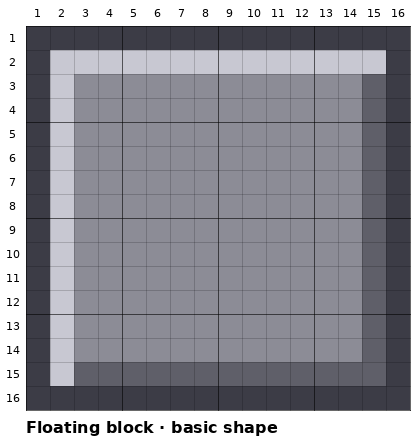
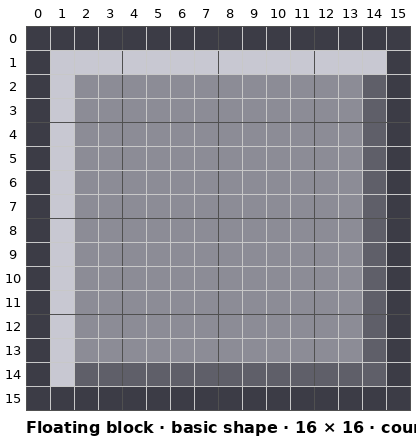
Platforms lesson: count rows and columns from 0 to match Piskel; redraw grid pictures
Claude-Session: https://claude.ai/code/session_0163dwnT656jUnDkoJDXqKES

diff --git a/piskel/lesson-00-three-platforms/index.html b/piskel/lesson-00-three-platforms/index.html
@@ -63,9 +63,9 @@
     <div class="down">↓</div>
     <div class="band" style="--c:var(--p2)"><h4><a href="#part2">Part 2 · Big ground platform</a></h4><div class="bubbles">
       <div class="bubble"><b>2A · Outline</b>Rectangle tool · #3B2414<br>Whole canvas, corner to corner</div><span class="arrow">→</span>
-      <div class="bubble"><b>2B · Grass line</b>Stroke tool · row 5 · hold Shift<br>Across from side to side</div><span class="arrow">→</span>
+      <div class="bubble"><b>2B · Grass line</b>Stroke tool · row 4 · hold Shift<br>Across from side to side</div><span class="arrow">→</span>
       <div class="bubble"><b>2C · Fill</b>Paint bucket<br>Grass #5AC850 · Dirt #8B5A2B</div><span class="arrow">→</span>
-      <div class="bubble"><b>2D · Grass details</b>Pen · row 2 #96E678 · row 4 #3C9637<br>Drips under row 5</div><span class="arrow">→</span>
+      <div class="bubble"><b>2D · Grass details</b>Pen · row 1 #96E678 · row 3 #3C9637<br>Drips under row 4</div><span class="arrow">→</span>
       <div class="bubble"><b>2E · Dirt details</b>Specks #6B4220<br>Stones #B4A08C</div><span class="arrow">→</span>
       <div class="bubble"><b>2F · Save + export</b>Save: ground.piskel<br>Export → PNG → Download</div>
     </div></div>
@@ -74,14 +74,14 @@
       <div class="bubble"><b>3A · New sprite</b>New tab · Create Sprite<br>Resize 16 × 16<br>Optional: Block palette, 4 colours</div><span class="arrow">→</span>
       <div class="bubble"><b>3B · Outline + fill</b>Rectangle #3C3C46<br>Bucket #8C8C96</div><span class="arrow">→</span>
       <div class="bubble"><b>3C · Edges</b>Stroke: light #C8C8D2 top + left<br>dark #5F5F69 bottom + right</div><span class="arrow">→</span>
-      <div class="bubble"><b>3D · Bricks</b>Mortar #5F5F69 · row 9 #C8C8D2<br>Crack</div><span class="arrow">→</span>
+      <div class="bubble"><b>3D · Bricks</b>Mortar #5F5F69 · row 8 #C8C8D2<br>Crack</div><span class="arrow">→</span>
       <div class="bubble"><b>3E · Save + export</b>block.piskel<br>block.png</div>
     </div></div>
     <div class="down">↓</div>
     <div class="band" style="--c:var(--p4)"><h4><a href="#part4">Part 4 · Log platform</a></h4><div class="bubbles">
       <div class="bubble"><b>4A · New sprite</b>New tab · Create Sprite<br>Resize 48 × 16<br>Optional: Log palette, 6 colours</div><span class="arrow">→</span>
       <div class="bubble"><b>4B · Outline + round ends</b>Rectangle #4A2C12<br>Erase 3 px per corner, add 1 inside</div><span class="arrow">→</span>
-      <div class="bubble"><b>4C · Fill + bark</b>Bucket #8B5A2B · row 4 #B07A45<br>rows 9 + 13 #6B4220</div><span class="arrow">→</span>
+      <div class="bubble"><b>4C · Fill + bark</b>Bucket #8B5A2B · row 3 #B07A45<br>rows 8 + 12 #6B4220</div><span class="arrow">→</span>
       <div class="bubble"><b>4D · Cut end + knot</b>Face #DCB478 · rings #A87444<br>Knot · break the bark lines</div><span class="arrow">→</span>
       <div class="bubble"><b>4E · Save + export</b>log.piskel<br>log.png</div>
     </div></div>
@@ -90,7 +90,7 @@
       <div class="bubble"><b>5A · Hand in</b>Google Classroom<br>3 .piskel + 3 .png</div>
     </div></div>
   </div>
-  <p class="key">Each colour is one part. Codes like 2B mean Part 2, section B. Underlined words are links. Codes like #5AC850 are colours. If you made a palette, (swatch 2) tells you which square to click. Row and column numbers count from 1, matching the numbers on the picture grids (Piskel's own counter starts at 0).</p>
+  <p class="key">Each colour is one part. Codes like 2B mean Part 2, section B. Underlined words are links. Codes like #5AC850 are colours. If you made a palette, (swatch 2) tells you which square to click. Row and column numbers count from 0, the same as Piskel's yellow mouse counter and the picture grids.</p>
 </section>
 
 <div class="controls">
@@ -110,7 +110,7 @@
 <tr><td><b>Pen size</b> (four small squares)</td><td>Far left, just above the tools</td></tr>
 <tr><td><b>Colour squares</b> (primary and secondary)</td><td>Far left, under the tools</td></tr>
 <tr><td><b>Palettes</b> panel</td><td>Right side, under Layers and Transform</td></tr>
-<tr><td><b>Mouse position</b> (yellow numbers)</td><td>Bottom-right, under the Palettes panel. Shows column:row of the pixel under the mouse, counting from 0.</td></tr>
+<tr><td><b>Mouse position</b> (yellow numbers)</td><td>Bottom-right, under the Palettes panel. Shows column:row of the pixel under the mouse. It counts from 0, the same as this lesson.</td></tr>
 <tr><td><b>Canvas</b> (where you draw)</td><td>Middle of the screen</td></tr>
 <tr><td><b>Preview</b> window and the quick <b>#</b> grid button</td><td>Top-right corner. The # button stays hidden until you move the mouse to the top of the Preview window, under Create Sprite.</td></tr>
 <tr><td><b>Settings</b> (gear) and its <b>Grid</b> tab</td><td>Strip of icons on the far right edge. Background (Misc tab), grid colour and turning the grid on (Grid tab) are set here.</td></tr>
@@ -168,14 +168,14 @@
 <summary><h2>Part 2 · Big ground platform</h2><span class="done"></span></summary>
 <div class="body">
 <p>First the basic shape: a dark brown box, a line to split off the grass, and two fills. Then the details.</p>
-<img class="ref" src="img/ground-basic-grid.png" alt="The basic ground platform on a numbered 64 by 16 grid" width="800" height="248">
+<img class="ref" src="img/ground-basic-grid.png?v=2" alt="The basic ground platform on a numbered 64 by 16 grid" width="800" height="248">
 <table>
 <tr><th>Swatch</th><th>Part of the platform</th><th>Colour code</th><th>Quick notes</th></tr>
-<tr><td>1</td><td>Outline and grass line</td><td><b>#3B2414</b> (very dark brown)</td><td><b>Rectangle</b> corner to corner · <b>Stroke</b> row 5</td></tr>
-<tr><td>2</td><td>Grass</td><td><b>#5AC850</b> (green)</td><td><b>(fill)</b> Bucket, top band · <b>Pen</b> every 4th px row 2, every 6th row 4</td></tr>
+<tr><td>1</td><td>Outline and grass line</td><td><b>#3B2414</b> (very dark brown)</td><td><b>Rectangle</b> corner to corner · <b>Stroke</b> row 4</td></tr>
+<tr><td>2</td><td>Grass</td><td><b>#5AC850</b> (green)</td><td><b>(fill)</b> Bucket, top band · <b>Pen</b> every 4th px row 1, every 6th row 3</td></tr>
 <tr><td>3</td><td>Dirt</td><td><b>#8B5A2B</b> (brown)</td><td><b>(fill)</b> Bucket, bottom band</td></tr>
-<tr><td>4</td><td>Grass highlight</td><td><b>#96E678</b> (light green)</td><td><b>Stroke</b> row 2, cols 2–63</td></tr>
-<tr><td>5</td><td>Grass shadow and drips</td><td><b>#3C9637</b> (dark green)</td><td><b>Stroke</b> row 4, cols 2–63 · <b>Pen</b> drips under row 5</td></tr>
+<tr><td>4</td><td>Grass highlight</td><td><b>#96E678</b> (light green)</td><td><b>Stroke</b> row 1, cols 1–62</td></tr>
+<tr><td>5</td><td>Grass shadow and drips</td><td><b>#3C9637</b> (dark green)</td><td><b>Stroke</b> row 3, cols 1–62 · <b>Pen</b> drips under row 4</td></tr>
 <tr><td>6</td><td>Specks and stone shadows</td><td><b>#6B4220</b> (darker brown)</td><td><b>Pen</b> ~12 specks · row under each stone</td></tr>
 <tr><td>7</td><td>Stones</td><td><b>#B4A08C</b> (pale grey-brown)</td><td><b>Pen</b> 2 px on top, 4 below</td></tr>
 </table>
@@ -195,10 +195,10 @@
 <h3>2B · Grass line</h3>
 <ol>
 <li>Keep <b>#3B2414</b> (swatch 1). Choose the <b>Stroke tool</b> <img src="../../assets/piskel/icon-stroke.png" alt="Stroke tool icon: a pen drawing a straight line" width="65" height="62" style="height:1.6em;width:auto;vertical-align:middle;margin:0 .25em;border-radius:3px"> (a pen drawing a straight line).</li>
-<li>Find <b>row 5</b> using the numbers down the left of the picture grid above (4 rows down from the top edge is grass).</li>
-<li>Press on the left outline at row 5, drag straight across to the right outline at row 5, and let go. A dark line now splits the strip into a thin top band and a thick bottom band.</li>
+<li>Find <b>row 4</b> using the numbers down the left of the picture grid above. Rows 0 to 3 are the top outline and the grass, so row 4 is the row just under them.</li>
+<li>Press on the left outline at row 4, drag straight across to the right outline at row 4, and let go. A dark line now splits the strip into a thin top band and a thick bottom band.</li>
 </ol>
-<div class="note what"><b>Where is my mouse?</b> The yellow numbers at the bottom-right, under the Palettes panel, show which pixel the mouse is over: the canvas size in brackets, then <b>column:row</b>.<img src="../../assets/piskel/mouse-position.png" alt="Yellow numbers at the bottom-right of Piskel: x17.60 (zoom), [48x16] 26:7 (canvas size, then column and row under the mouse), 1/1 (frame)" width="170" height="70" style="display:block;max-width:100%;height:auto;margin:.5em 0;border:1px solid #ccc;border-radius:6px">Piskel starts counting at <b>0</b>, but this lesson starts at <b>1</b>, so Piskel's numbers are always <b>one less</b>. Row 5, column 2 in the lesson shows as <b>1:4</b> in Piskel.</div>
+<div class="note what"><b>Where is my mouse?</b> The yellow numbers at the bottom-right, under the Palettes panel, show which pixel the mouse is over: the canvas size in brackets, then <b>column:row</b>.<img src="../../assets/piskel/mouse-position.png" alt="Yellow numbers at the bottom-right of Piskel: x17.60 (zoom), [48x16] 26:7 (canvas size, then column and row under the mouse), 1/1 (frame)" width="170" height="70" style="display:block;max-width:100%;height:auto;margin:.5em 0;border:1px solid #ccc;border-radius:6px">Piskel starts counting at <b>0</b> (the top-left pixel is <b>0:0</b>), and so does this lesson, so the numbers match. Row 4, column 1 shows as <b>1:4</b>: column first, then row.</div>
 <div class="note what"><b>Straight lines:</b> hold <b>Shift</b> while you drag with the Stroke tool. It pulls the line straight across or straight down. Keep the mouse close to the row as you drag, though: if it drifts too far, the line flips to a diagonal. If that happens, move back toward the row before you let go. The yellow row number at the bottom-right should stay the same the whole way across.</div>
 
 <h3>2C · Fill the grass and dirt</h3>
@@ -216,22 +216,22 @@
 </div>
 
 <h3>2D · Grass details</h3>
-<p>Now copy the detailed pattern, or make up your own details. The numbers along the top and side count the pixels, so you can find your place.</p>
-<img class="ref" src="img/ground-grid.png" alt="The detailed ground platform pattern on a numbered 64 by 16 grid" width="800" height="248">
+<p>Now copy the detailed pattern, or make up your own details. The numbers along the top and side count the pixels from 0, the same as Piskel's yellow mouse counter, so you can find your place.</p>
+<img class="ref" src="img/ground-grid.png?v=2" alt="The detailed ground platform pattern on a numbered 64 by 16 grid" width="800" height="248">
 <img class="ref" src="img/ground-big.png" alt="The finished detailed ground platform, shown bigger" width="384" height="96">
 <ol>
-<li>Pick <b>#96E678</b> (swatch 4) and choose the <b>Stroke tool</b> <img src="../../assets/piskel/icon-stroke.png" alt="Stroke tool icon: a pen drawing a straight line" width="65" height="62" style="height:1.6em;width:auto;vertical-align:middle;margin:0 .25em;border-radius:3px">. Drag along <b>row 2</b> from column 2 to column 63. The top of the grass turns light green.</li>
-<li>Choose the <b>Pen tool</b> <img src="../../assets/piskel/icon-pen.png" alt="Pen tool icon: a pencil" width="47" height="50" style="height:1.6em;width:auto;vertical-align:middle;margin:0 .25em;border-radius:3px"> and pick the plain green <b>#5AC850</b> (swatch 2). On row 2, click every 4th pixel to put plain green back (columns 2, 6, 10, 14 and so on, as in the picture). The gaps look like separate blades of grass.</li>
-<li>Pick <b>#3C9637</b> (swatch 5) and the <b>Stroke tool</b> <img src="../../assets/piskel/icon-stroke.png" alt="Stroke tool icon: a pen drawing a straight line" width="65" height="62" style="height:1.6em;width:auto;vertical-align:middle;margin:0 .25em;border-radius:3px">. Drag along <b>row 4</b> from column 2 to column 63. This is the shadow at the bottom of the grass.</li>
-<li>With the <b>Pen</b> and green <b>#5AC850</b> (swatch 2), put a few plain green pixels back on row 4 (every 6th pixel in the picture).</li>
-<li>Pick <b>#3C9637</b> (swatch 5) again. With the <b>Pen</b>, draw the <b>drips</b>: short bits of grass hanging down into the dirt, just below the dark line on row 5. Each drip is 1 to 3 pixels long, going straight down. Copy where they are in the picture, or put your own.</li>
+<li>Pick <b>#96E678</b> (swatch 4) and choose the <b>Stroke tool</b> <img src="../../assets/piskel/icon-stroke.png" alt="Stroke tool icon: a pen drawing a straight line" width="65" height="62" style="height:1.6em;width:auto;vertical-align:middle;margin:0 .25em;border-radius:3px">. Drag along <b>row 1</b> from column 1 to column 62. The top of the grass turns light green.</li>
+<li>Choose the <b>Pen tool</b> <img src="../../assets/piskel/icon-pen.png" alt="Pen tool icon: a pencil" width="47" height="50" style="height:1.6em;width:auto;vertical-align:middle;margin:0 .25em;border-radius:3px"> and pick the plain green <b>#5AC850</b> (swatch 2). On row 1, click every 4th pixel to put plain green back (columns 1, 5, 9, 13 and so on, as in the picture). The gaps look like separate blades of grass.</li>
+<li>Pick <b>#3C9637</b> (swatch 5) and the <b>Stroke tool</b> <img src="../../assets/piskel/icon-stroke.png" alt="Stroke tool icon: a pen drawing a straight line" width="65" height="62" style="height:1.6em;width:auto;vertical-align:middle;margin:0 .25em;border-radius:3px">. Drag along <b>row 3</b> from column 1 to column 62. This is the shadow at the bottom of the grass.</li>
+<li>With the <b>Pen</b> and green <b>#5AC850</b> (swatch 2), put a few plain green pixels back on row 3 (every 6th pixel in the picture).</li>
+<li>Pick <b>#3C9637</b> (swatch 5) again. With the <b>Pen</b>, draw the <b>drips</b>: short bits of grass hanging down into the dirt, just below the dark line on row 4. Each drip is 1 to 3 pixels long, going straight down. Copy where they are in the picture, or put your own.</li>
 <li>Made a mistake? <b>Right-click</b> a pixel with the Pen to erase it, then put the right colour back with the Pen.</li>
 </ol>
 
 <h3>2E · Dirt details</h3>
 <ol>
 <li>Pick <b>#6B4220</b> (swatch 6) and, with the <b>Pen</b>, draw about 12 <b>specks</b> spread out in the dirt. Most are 2 pixels side by side; some are 1 pixel.</li>
-<li><b>Stones:</b> pick <b>#B4A08C</b> (swatch 7) and draw a small bump shape: 2 pixels on top, 4 pixels on the row below it. Then pick <b>#6B4220</b> (swatch 6) and draw the shadow on the row under that (look at columns 14 to 17, rows 9 to 11, in the picture). Make two stones.</li>
+<li><b>Stones:</b> pick <b>#B4A08C</b> (swatch 7) and draw a small bump shape: 2 pixels on top, 4 pixels on the row below it. Then pick <b>#6B4220</b> (swatch 6) and draw the shadow on the row under that (look at columns 13 to 16, rows 8 to 10, in the picture). Make two stones.</li>
 </ol>
 <div class="note what"><b>Your own ideas:</b> a flower, a buried bone, a worm, a mushroom on the grass. Keep everything inside the outline.</div>
 
@@ -262,14 +262,14 @@
 <div class="body">
 <p>A small stone square. A light line on the top and left and a dark line on the bottom and right make it look like it sticks out, as if light is shining from the top-left.</p>
 <div class="refrow">
-<img class="ref" src="img/block-basic-grid.png" alt="The basic stone block on a numbered 16 by 16 grid" width="416" height="440">
+<img class="ref" src="img/block-basic-grid.png?v=2" alt="The basic stone block on a numbered 16 by 16 grid" width="416" height="440">
 </div>
 <table>
 <tr><th>Swatch</th><th>Part of the block</th><th>Colour code</th><th>Quick notes</th></tr>
 <tr><td>1</td><td>Outline</td><td><b>#3C3C46</b> (very dark grey)</td><td><b>Rectangle</b> corner to corner</td></tr>
 <tr><td>2</td><td>Stone</td><td><b>#8C8C96</b> (grey)</td><td><b>(fill)</b> Bucket inside</td></tr>
-<tr><td>3</td><td>Light edge (top and left)</td><td><b>#C8C8D2</b> (light grey)</td><td><b>Stroke</b> row 2 + col 2 · row 9 (cols 3–14)</td></tr>
-<tr><td>4</td><td>Dark edge (bottom and right)</td><td><b>#5F5F69</b> (dark grey)</td><td><b>Stroke</b> row 15 + col 15 · mortar row 8 · joints col 8, cols 5 + 11 · <b>Pen</b> crack</td></tr>
+<tr><td>3</td><td>Light edge (top and left)</td><td><b>#C8C8D2</b> (light grey)</td><td><b>Stroke</b> row 1 + col 1 · row 8 (cols 2–13)</td></tr>
+<tr><td>4</td><td>Dark edge (bottom and right)</td><td><b>#5F5F69</b> (dark grey)</td><td><b>Stroke</b> row 14 + col 14 · mortar row 7 · joints col 7, cols 4 + 10 · <b>Pen</b> crack</td></tr>
 </table>
 
 <h3>3A · New sprite, 16 × 16</h3>
@@ -290,11 +290,11 @@
 <p>All four lines go just <b>inside</b> the outline, on the first ring of grey pixels.</p>
 <ol>
 <li>Pick <b>#C8C8D2</b> (swatch 3) and choose the <b>Stroke tool</b> <img src="../../assets/piskel/icon-stroke.png" alt="Stroke tool icon: a pen drawing a straight line" width="65" height="62" style="height:1.6em;width:auto;vertical-align:middle;margin:0 .25em;border-radius:3px">.</li>
-<li><b>Top:</b> drag along <b>row 2</b> from column 2 to column 15.</li>
-<li><b>Left:</b> drag down <b>column 2</b> from row 2 to row 15.</li>
+<li><b>Top:</b> drag along <b>row 1</b> from column 1 to column 14.</li>
+<li><b>Left:</b> drag down <b>column 1</b> from row 1 to row 14.</li>
 <li>Pick <b>#5F5F69</b> (swatch 4).</li>
-<li><b>Bottom:</b> drag along <b>row 15</b> from column 3 to column 15.</li>
-<li><b>Right:</b> drag up <b>column 15</b> from row 15 to row 3.</li>
+<li><b>Bottom:</b> drag along <b>row 14</b> from column 2 to column 14.</li>
+<li><b>Right:</b> drag up <b>column 14</b> from row 14 to row 2.</li>
 </ol>
 <div class="note what"><b>Remember:</b> hold <b>Shift</b> and keep the mouse close to the row or column as you drag. If the line flips to a diagonal, move back before you let go.</div>
 <div class="note what"><b>Look at the Preview</b> (top-right corner). At its real small size, the block should look raised, like a button.</div>
@@ -302,15 +302,15 @@
 <h3>3D · Bricks</h3>
 <p>Turn the plain stone into bricks. Copy the pattern, or draw your own brick layout.</p>
 <div class="refrow">
-<img class="ref" src="img/block-grid.png" alt="The detailed stone block pattern on a numbered 16 by 16 grid" width="416" height="440">
+<img class="ref" src="img/block-grid.png?v=2" alt="The detailed stone block pattern on a numbered 16 by 16 grid" width="416" height="440">
 <img class="ref" src="img/block-big.png" alt="The finished detailed stone block, shown bigger" width="96" height="96">
 </div>
 <ol>
-<li>Pick <b>#5F5F69</b> (swatch 4) and the <b>Stroke tool</b> <img src="../../assets/piskel/icon-stroke.png" alt="Stroke tool icon: a pen drawing a straight line" width="65" height="62" style="height:1.6em;width:auto;vertical-align:middle;margin:0 .25em;border-radius:3px">. Drag along <b>row 8</b> from column 3 to column 14. This is the mortar line between the top and bottom bricks.</li>
-<li>Pick <b>#C8C8D2</b> (swatch 3) and drag along <b>row 9</b> from column 3 to column 14, right under the mortar. The light line makes the bottom bricks look like they stick out.</li>
-<li>Pick <b>#5F5F69</b> (swatch 4) again. Drag down <b>column 8</b> from row 3 to row 7 (one joint in the top row of bricks).</li>
-<li>Drag down <b>column 5</b> from row 10 to row 14, and down <b>column 11</b> from row 10 to row 14 (two joints in the bottom row). The joints don't line up, just like a real brick wall.</li>
-<li><b>Crack:</b> with the <b>Pen</b> and <b>#5F5F69</b> (swatch 4), click 3 pixels in a zigzag: row 4 column 12, row 5 column 13, row 6 column 12.</li>
+<li>Pick <b>#5F5F69</b> (swatch 4) and the <b>Stroke tool</b> <img src="../../assets/piskel/icon-stroke.png" alt="Stroke tool icon: a pen drawing a straight line" width="65" height="62" style="height:1.6em;width:auto;vertical-align:middle;margin:0 .25em;border-radius:3px">. Drag along <b>row 7</b> from column 2 to column 13. This is the mortar line between the top and bottom bricks.</li>
+<li>Pick <b>#C8C8D2</b> (swatch 3) and drag along <b>row 8</b> from column 2 to column 13, right under the mortar. The light line makes the bottom bricks look like they stick out.</li>
+<li>Pick <b>#5F5F69</b> (swatch 4) again. Drag down <b>column 7</b> from row 2 to row 6 (one joint in the top row of bricks).</li>
+<li>Drag down <b>column 4</b> from row 9 to row 13, and down <b>column 10</b> from row 9 to row 13 (two joints in the bottom row). The joints don't line up, just like a real brick wall.</li>
+<li><b>Crack:</b> with the <b>Pen</b> and <b>#5F5F69</b> (swatch 4), click 3 pixels in a zigzag: row 3 column 11, row 4 column 12, row 5 column 11.</li>
 </ol>
 <div class="note what"><b>Remember:</b> hold <b>Shift</b> and keep the mouse close to the row or column as you drag. If the line flips to a diagonal, move back before you let go.</div>
 
@@ -335,15 +335,15 @@
 <summary><h2>Part 4 · Log platform</h2><span class="done"></span></summary>
 <div class="body">
 <p>A log is a cylinder lying on its side. Rounded ends and a light stripe near the top make a flat drawing look round. The detailed version adds a sawn-off end with tree rings.</p>
-<img class="ref" src="img/log-basic-grid.png" alt="The basic log on a numbered 48 by 16 grid" width="752" height="296">
+<img class="ref" src="img/log-basic-grid.png?v=2" alt="The basic log on a numbered 48 by 16 grid" width="752" height="296">
 <table>
 <tr><th>Swatch</th><th>Part of the log</th><th>Colour code</th><th>Quick notes</th></tr>
 <tr><td>1</td><td>Outline</td><td><b>#4A2C12</b> (very dark brown)</td><td><b>Rectangle</b>, round the corners · <b>Pen</b> cut-end oval, knot centre</td></tr>
-<tr><td>2</td><td>Bark</td><td><b>#8B5A2B</b> (brown)</td><td><b>(fill)</b> Bucket · <b>Stroke</b> over rows 4, 9, 13 cols 38–46 to clear · <b>Pen</b> gaps in bark lines</td></tr>
-<tr><td>3</td><td>Light stripe</td><td><b>#B07A45</b> (light brown)</td><td><b>Stroke</b> row 4, cols 4–45</td></tr>
-<tr><td>4</td><td>Bark lines and knot</td><td><b>#6B4220</b> (darker brown)</td><td><b>Stroke</b> rows 9 + 13, cols 4–45 · <b>Pen</b> knot ring</td></tr>
+<tr><td>2</td><td>Bark</td><td><b>#8B5A2B</b> (brown)</td><td><b>(fill)</b> Bucket · <b>Stroke</b> over rows 3, 8, 12 cols 37–45 to clear · <b>Pen</b> gaps in bark lines</td></tr>
+<tr><td>3</td><td>Light stripe</td><td><b>#B07A45</b> (light brown)</td><td><b>Stroke</b> row 3, cols 3–44</td></tr>
+<tr><td>4</td><td>Bark lines and knot</td><td><b>#6B4220</b> (darker brown)</td><td><b>Stroke</b> rows 8 + 12, cols 3–44 · <b>Pen</b> knot ring</td></tr>
 <tr><td>5</td><td>Cut end (the wood face)</td><td><b>#DCB478</b> (pale wood)</td><td><b>(fill)</b> Bucket inside the oval</td></tr>
-<tr><td>6</td><td>Tree rings</td><td><b>#A87444</b> (medium brown)</td><td><b>Pen</b> ring cols 41–46, rows 5–12 · 2×2 centre dot</td></tr>
+<tr><td>6</td><td>Tree rings</td><td><b>#A87444</b> (medium brown)</td><td><b>Pen</b> ring cols 40–45, rows 4–11 · 2×2 centre dot</td></tr>
 </table>
 
 <h3>4A · New sprite, 48 × 16</h3>
@@ -358,30 +358,30 @@
 <ol>
 <li>Pick <b>#4A2C12</b> (swatch 1), choose the <b>Rectangle tool</b> <img src="../../assets/piskel/icon-rectangle.png" alt="Rectangle tool icon: an empty square" width="53" height="55" style="height:1.6em;width:auto;vertical-align:middle;margin:0 .25em;border-radius:3px">, and drag from the top-left square to the bottom-right square.</li>
 <li>Choose the <b>Eraser tool</b> <img src="../../assets/piskel/icon-eraser.png" alt="Eraser tool icon: a tilted eraser" width="52" height="52" style="height:1.6em;width:auto;vertical-align:middle;margin:0 .25em;border-radius:3px">. At the <b>top-left corner</b>, click 3 pixels to erase them: the corner pixel, the one to its right, and the one below it. The corner now has a small notch.</li>
-<li>Choose the <b>Pen tool</b> <img src="../../assets/piskel/icon-pen.png" alt="Pen tool icon: a pencil" width="47" height="50" style="height:1.6em;width:auto;vertical-align:middle;margin:0 .25em;border-radius:3px"> and click the pixel <b>diagonally inside</b> the notch (row 2, column 2). The corner is now rounded.</li>
-<li>Do the same at the other three corners. The pixels to add with the Pen are row 2 column 47, row 15 column 2, and row 15 column 47. Use the picture grid to check.</li>
+<li>Choose the <b>Pen tool</b> <img src="../../assets/piskel/icon-pen.png" alt="Pen tool icon: a pencil" width="47" height="50" style="height:1.6em;width:auto;vertical-align:middle;margin:0 .25em;border-radius:3px"> and click the pixel <b>diagonally inside</b> the notch (row 1, column 1). The corner is now rounded.</li>
+<li>Do the same at the other three corners. The pixels to add with the Pen are row 1 column 46, row 14 column 1, and row 14 column 46. Use the picture grid to check.</li>
 </ol>
 <div class="note what"><b>Why it works:</b> cutting the square corners off is the pixel-art way of drawing a curve. It makes the ends look round.</div>
 
 <h3>4C · Fill and bark lines</h3>
 <ol>
 <li>Pick <b>#8B5A2B</b> (swatch 2), choose the <b>Paint bucket</b> <img src="../../assets/piskel/icon-bucket.png" alt="Paint bucket tool icon: a tipping paint can" width="57" height="57" style="height:1.6em;width:auto;vertical-align:middle;margin:0 .25em;border-radius:3px">, and click inside the log. If the colour spills outside, a rounded corner has a gap: press <b>Ctrl+Z</b> and check that corner against the picture.</li>
-<li>Pick <b>#B07A45</b> (swatch 3), choose the <b>Stroke tool</b> <img src="../../assets/piskel/icon-stroke.png" alt="Stroke tool icon: a pen drawing a straight line" width="65" height="62" style="height:1.6em;width:auto;vertical-align:middle;margin:0 .25em;border-radius:3px">, and drag along <b>row 4</b> from column 4 to column 45. This is the light shining on the top of the log.</li>
-<li>Pick <b>#6B4220</b> (swatch 4) and drag two more lines, from column 4 to column 45: one on <b>row 9</b> and one on <b>row 13</b>. These are the bark lines.</li>
+<li>Pick <b>#B07A45</b> (swatch 3), choose the <b>Stroke tool</b> <img src="../../assets/piskel/icon-stroke.png" alt="Stroke tool icon: a pen drawing a straight line" width="65" height="62" style="height:1.6em;width:auto;vertical-align:middle;margin:0 .25em;border-radius:3px">, and drag along <b>row 3</b> from column 3 to column 44. This is the light shining on the top of the log.</li>
+<li>Pick <b>#6B4220</b> (swatch 4) and drag two more lines, from column 3 to column 44: one on <b>row 8</b> and one on <b>row 12</b>. These are the bark lines.</li>
 </ol>
 <div class="note what"><b>Remember:</b> hold <b>Shift</b> and keep the mouse close to the row or column as you drag. If the line flips to a diagonal, move back before you let go.</div>
 
 <h3>4D · Cut end and knot</h3>
 <p>Show the sawn-off end of the log with its tree rings, and add a knot in the bark. Copy the pattern, or make up your own.</p>
-<img class="ref" src="img/log-grid.png" alt="The detailed log pattern on a numbered 48 by 16 grid" width="752" height="296">
+<img class="ref" src="img/log-grid.png?v=2" alt="The detailed log pattern on a numbered 48 by 16 grid" width="752" height="296">
 <img class="ref" src="img/log-big.png" alt="The finished detailed log, shown bigger" width="288" height="96">
 <ol>
-<li><b>Clear the way:</b> pick the bark colour <b>#8B5A2B</b> (swatch 2) and the <b>Stroke tool</b> <img src="../../assets/piskel/icon-stroke.png" alt="Stroke tool icon: a pen drawing a straight line" width="65" height="62" style="height:1.6em;width:auto;vertical-align:middle;margin:0 .25em;border-radius:3px">. Drag over <b>rows 4, 9 and 13</b> from column 38 to column 46. The right ends of the three lines disappear, so they won't cut through the wood face.</li>
-<li><b>Edge of the cut end:</b> pick <b>#4A2C12</b> (swatch 1) and, with the <b>Pen</b>, draw the tall oval at the right end, as in the picture: column 39 from row 4 to row 13, column 47 from row 4 to row 13, row 2 and row 15 from column 41 to column 46, and one corner pixel at each of row 3 and row 14 (columns 40 and 47).</li>
+<li><b>Clear the way:</b> pick the bark colour <b>#8B5A2B</b> (swatch 2) and the <b>Stroke tool</b> <img src="../../assets/piskel/icon-stroke.png" alt="Stroke tool icon: a pen drawing a straight line" width="65" height="62" style="height:1.6em;width:auto;vertical-align:middle;margin:0 .25em;border-radius:3px">. Drag over <b>rows 3, 8 and 12</b> from column 37 to column 45. The right ends of the three lines disappear, so they won't cut through the wood face.</li>
+<li><b>Edge of the cut end:</b> pick <b>#4A2C12</b> (swatch 1) and, with the <b>Pen</b>, draw the tall oval at the right end, as in the picture: column 38 from row 3 to row 12, column 46 from row 3 to row 12, row 1 and row 14 from column 40 to column 45, and one corner pixel at each of row 2 and row 13 (columns 39 and 46).</li>
 <li><b>Wood face:</b> pick <b>#DCB478</b> (swatch 5) and the <b>Paint bucket</b> <img src="../../assets/piskel/icon-bucket.png" alt="Paint bucket tool icon: a tipping paint can" width="57" height="57" style="height:1.6em;width:auto;vertical-align:middle;margin:0 .25em;border-radius:3px">, and click inside the oval. If the colour spills into the bark, there is a gap in the oval: press <b>Ctrl+Z</b> and close it.</li>
-<li><b>Rings:</b> pick <b>#A87444</b> (swatch 6) and, with the <b>Pen</b>, draw a smaller ring inside the face (columns 41 to 46, rows 5 to 12) and a 2 × 2 dot in the very middle.</li>
-<li><b>Break the bark lines:</b> still with <b>#8B5A2B</b> (swatch 2), click a few single pixels on the dark lines (rows 9 and 13) to put small gaps in them. Real bark is not one long straight line.</li>
-<li><b>Knot:</b> pick <b>#6B4220</b> (swatch 4) and draw a small ring of 6 pixels around columns 20 to 23, rows 6 to 8, then fill its centre 2 pixels with <b>#4A2C12</b> (swatch 1).</li>
+<li><b>Rings:</b> pick <b>#A87444</b> (swatch 6) and, with the <b>Pen</b>, draw a smaller ring inside the face (columns 40 to 45, rows 4 to 11) and a 2 × 2 dot in the very middle.</li>
+<li><b>Break the bark lines:</b> still with <b>#8B5A2B</b> (swatch 2), click a few single pixels on the dark lines (rows 8 and 12) to put small gaps in them. Real bark is not one long straight line.</li>
+<li><b>Knot:</b> pick <b>#6B4220</b> (swatch 4) and draw a small ring of 6 pixels around columns 19 to 22, rows 5 to 7, then fill its centre 2 pixels with <b>#4A2C12</b> (swatch 1).</li>
 </ol>
 <div class="note what"><b>Your own ideas:</b> moss on top, a mushroom growing out of the bark, a carved arrow. Keep it all inside the outline.</div>
 
